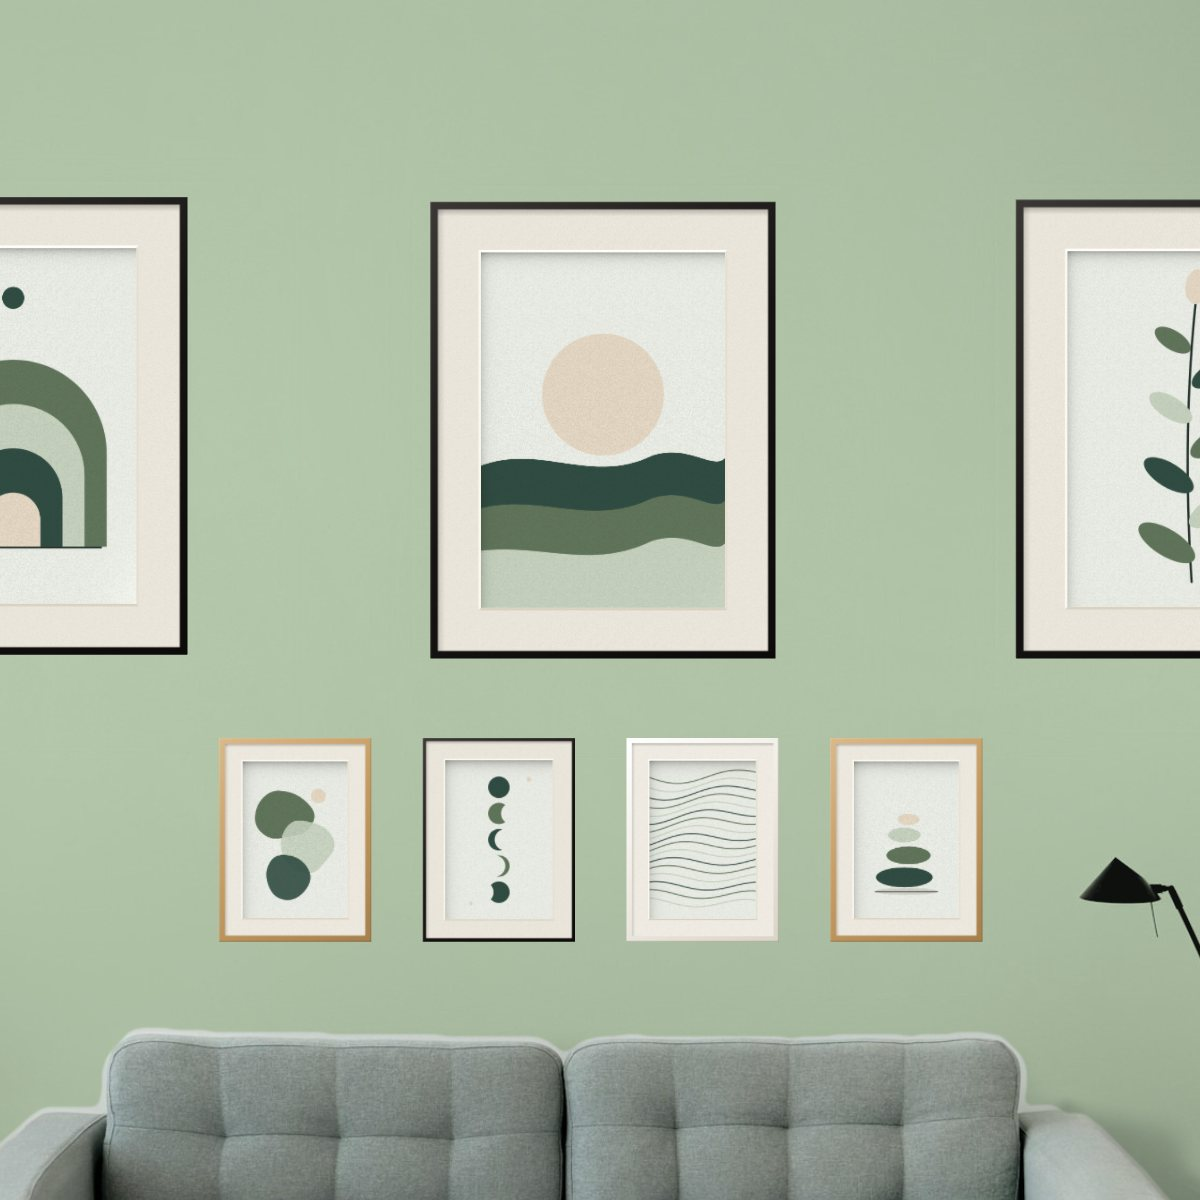
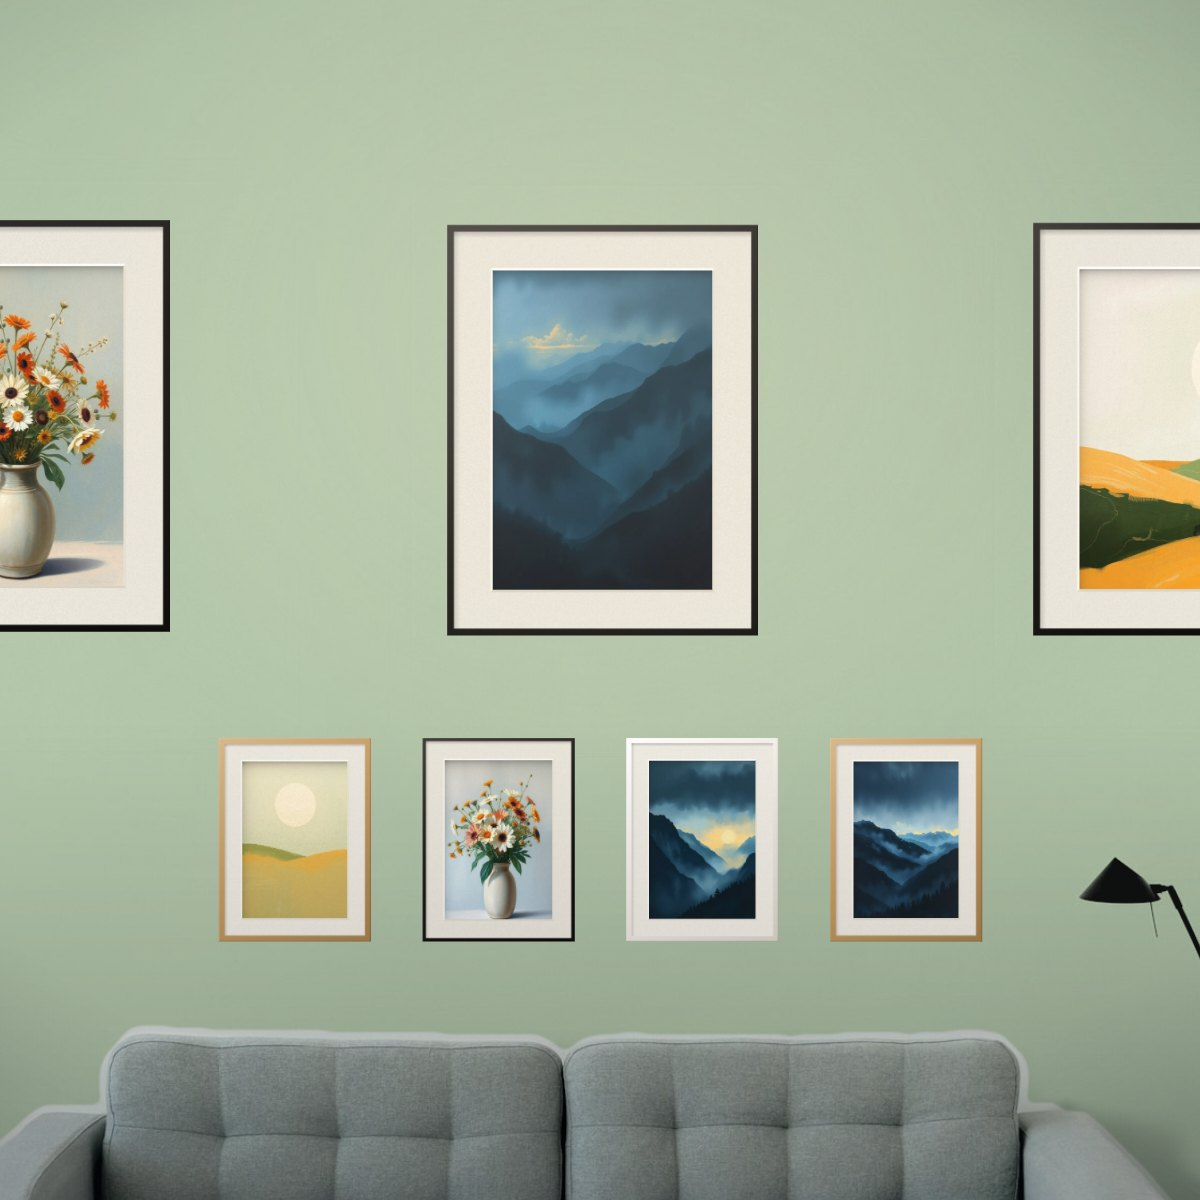
Round 3: key-light shadows, lamp glow, new phone specimen, readable captions
Claude-Session: https://claude.ai/code/session_018a31UpSgKUpTcqNgbw5G6D

diff --git a/index.html b/index.html
@@ -41,7 +41,7 @@ a{color:inherit}
 .stick{position:sticky;top:0;height:100vh;height:100svh;overflow:hidden;background:#d9d5d0 url(img/plate.jpg) center/cover no-repeat;isolation:isolate}
 #gl{position:absolute;inset:0;width:100%;height:100%;display:block;opacity:0;transition:opacity .9s ease}
 .ready #gl{opacity:1}
-.lightfall{position:absolute;inset:0;z-index:1;pointer-events:none;background:radial-gradient(ellipse 70% 60% at 50% 28%,rgba(255,240,214,.20),transparent 72%),radial-gradient(ellipse 120% 90% at 50% 45%,transparent 55%,rgba(12,16,30,.26)),linear-gradient(to bottom,transparent 60%,rgba(12,16,30,.16))}
+.lightfall{position:absolute;inset:0;z-index:1;pointer-events:none;background:radial-gradient(ellipse 38% 50% at 80% 34%,rgba(255,206,140,.20),transparent 70%),radial-gradient(ellipse 70% 60% at 50% 28%,rgba(255,240,214,.20),transparent 72%),radial-gradient(ellipse 120% 90% at 50% 45%,transparent 55%,rgba(12,16,30,.26)),linear-gradient(to bottom,transparent 60%,rgba(12,16,30,.16))}
 #gl{z-index:0}
 .vig{position:absolute;inset:0;pointer-events:none;background:radial-gradient(120% 90% at 50% 45%,transparent 55%,rgba(20,24,36,.2) 100%)}
 .shade{position:absolute;left:0;right:0;bottom:0;height:36%;pointer-events:none;background:linear-gradient(to top,rgba(20,24,36,.3),rgba(20,24,36,0))}
@@ -215,19 +215,20 @@ footer a{color:#F5F6F3;text-decoration-thickness:1px;text-underline-offset:3px}
 /* wall-label captions: no box, type sits on the wall like a gallery placard */
 .cap.pill{background:none!important;box-shadow:none!important;border-radius:0;padding:14px 0 0 0;width:min(262px,calc(100% - 2*var(--gut)));color:#1B2234;border-top:1px solid rgba(27,34,52,.55)}
 .cap.pill h2{font-size:1.4rem;text-shadow:0 0 18px rgba(232,234,228,.95),0 0 6px rgba(232,234,228,.8)}
-.cap.pill p{color:#1E2740;font-size:.95rem;text-shadow:0 0 14px rgba(232,234,228,.95),0 0 5px rgba(232,234,228,.8)}
+.cap.pill p{color:#141C33;font-size:1rem;text-shadow:0 0 14px rgba(232,234,228,.95),0 0 5px rgba(232,234,228,.8)}
 .cap.pill:before{content:attr(data-n);display:block;font:600 .74rem/1 var(--sans);letter-spacing:.18em;text-transform:uppercase;margin-bottom:9px;color:#3F4E73}
 .cap#c3.pill{color:#F5F6F3;border-top-color:rgba(245,246,243,.6)}
 .cap#c3.pill h2,.cap#c3.pill p{color:#F5F6F3;text-shadow:0 1px 14px rgba(14,20,38,.55)}
 .cap#c3.pill:before{color:#C9D3EA}
 .cap#c3 #tryNote{color:#E3E8F5}
+.cap#c3 .btn.ink{background:#F5F6F3;color:#141C33;box-shadow:0 0 0 1px rgba(245,246,243,.5)}
 @media(max-width:780px){.cap.pill{width:min(250px,70vw);padding-top:11px}.cap.pill h2{font-size:1.15rem}.cap.pill p{font-size:.86rem}.cap#c0 p,.cap#c1 p,.cap#c2 p{display:none}}
 .cap.pill{bottom:max(21vh,90px)}
 @media(max-width:780px){.cap.pill{bottom:max(2.5vh,14px);color:#F5F6F3;border-top-color:rgba(245,246,243,.6);isolation:isolate}
 .cap.pill:after{content:"";position:absolute;z-index:-1;left:calc(-1*var(--gut));right:-100vw;top:-70px;bottom:-16px;background:linear-gradient(to top,rgba(16,23,42,.78) 0,rgba(16,23,42,.6) 55%,rgba(16,23,42,0) 100%)}
-.cap.pill h2,.cap.pill p,.cap#c3 #tryNote{color:#F5F6F3;text-shadow:0 1px 10px rgba(10,15,30,.5)}.cap.pill:before{color:#C9D3EA}.cap#c0 p,.cap#c1 p,.cap#c2 p{display:none}}
 </head>
 <body>
+.cap.pill h2,.cap.pill p,.cap#c3 #tryNote{color:#F5F6F3;text-shadow:0 1px 10px rgba(10,15,30,.5)}.cap.pill:before{color:#C9D3EA}.cap#c0 p,.cap#c1 p,.cap#c2 p{display:none}}
 </style>
 <noscript><style>.rv{opacity:1;transform:none}.hero{position:relative;top:auto;padding:100px 16px 30px}.track{height:auto}.stick{height:70svh}.cue{display:none}</style></noscript>
 <main>
@@ -534,7 +535,7 @@ function start(img,maskImg){
   var am=new THREE.ShaderMaterial({vertexShader:VS,fragmentShader:FS_ART,uniforms:{tA:{value:ta[0]},tB:{value:ta[1]},uMix:{value:0},uShift:{value:0},uO:{value:1},uWin:{value:new THREE.Vector2(win[2],win[3])}},transparent:true,depthTest:false,depthWrite:false});
   var art=new THREE.Mesh(new THREE.PlaneGeometry(win[2],win[3]),am);art.renderOrder=ro+2;
   art.position.set(win[0]+win[2]/2-f.w/2,f.h/2-(win[1]+win[3]/2),0);
-  var sh2=new THREE.Mesh(new THREE.PlaneGeometry(f.w*1.1,f.h*1.07),new THREE.MeshBasicMaterial({map:shTex2,transparent:true,opacity:.4,depthTest:false,depthWrite:false}));sh2.renderOrder=ro;sh2.position.set(3,-5,-.4);inner.add(sh2);
+  var sh2=new THREE.Mesh(new THREE.PlaneGeometry(f.w*1.1,f.h*1.07),new THREE.MeshBasicMaterial({map:shTex2,transparent:true,opacity:.4,depthTest:false,depthWrite:false}));sh2.renderOrder=ro;sh2.position.set(-3,-5,-.4);inner.add(sh2);
   inner.add(sh,fm,art);sh.position.set(0,0,0);piv.visible=false;scene.add(piv);
   frames.push({sh2:sh2,fm:fm,aw:aw,ah:ah,f:f,piv:piv,inner:inner,sh:sh,am:am,ta:ta,fx:f.x/PW,u:0});
  });
@@ -582,7 +583,7 @@ function render(force,time){
   var lift=(1-e)*34,fo=clamp(t*2.2);F.fm.material.opacity=fo;F.am.uniforms.uO.value=fo;
   F.piv.position.set(f.x,top+lift,2);
   F.piv.rotation.z=0;F.piv.rotation.x=0;
-  var lf=1-t;F.sh2.material.opacity=.4*fo;F.sh.material.opacity=.34*fo;F.sh.position.set(5+lf*6,-7-lf*10,-.5);F.sh.scale.setScalar(1+lf*.08);
+  var lf=1-t;F.sh2.material.opacity=.4*fo;F.sh.material.opacity=.34*fo;F.sh.position.set(-6-lf*6,-7-lf*10,-.5);F.sh.scale.setScalar(1+lf*.08);
   /* palette */
   var t1=sm(clamp((X1-(F.fx-.035))/.07)),t2=sm(clamp((X2-(F.fx-.035))/.07));
   var um=F.am.uniforms;
